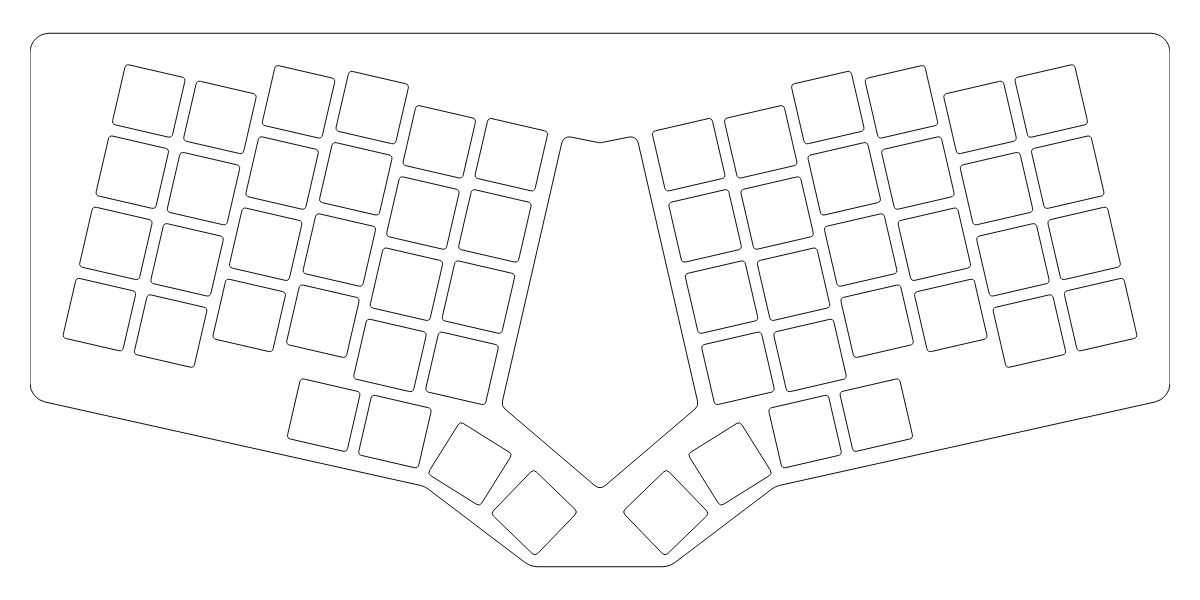
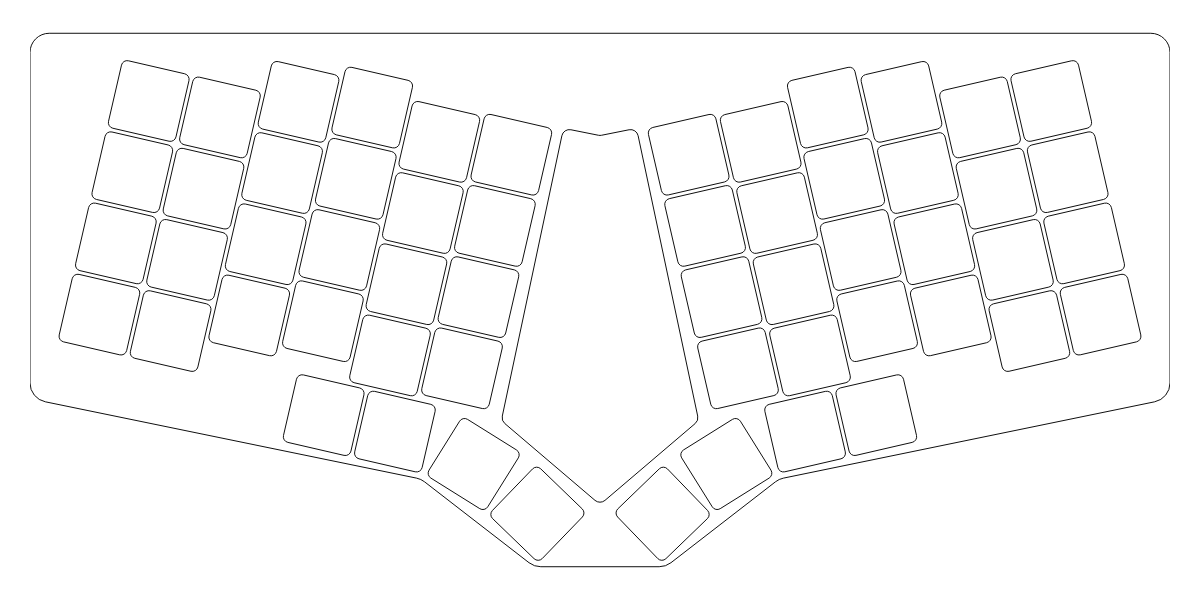
feat: adopt revised Briefs 56 layout

diff --git a/src/examples/briefs56.ts b/src/examples/briefs56.ts
@@ -4,23 +4,15 @@ import { ConfigExample } from './index';
 const Briefs56: ConfigExample = {
   label: 'Briefs 56',
   author: 'ceoloide',
-  value: `meta:
+  value: `# Inspired by the Dygma Sonsei
+meta:
   name: Briefs 56
   author: ceoloide
   engine: 4.3.0
   version: 1.0.0
-# Inspired by the Dygma Sonsei: 6 x 4 + 4 keys per half.
-# Ergogen defaults to u (19 mm) for both spread and padding; U is 19.05 mm.
-# The matrix and outer two thumbs use that default spacing for Choc v2 / MX.
-# The inner thumb pair approximates the drawing's custom keycaps.
-# cap is a visual guide, not a physical keycap clearance specification.
-# The body and center are illustrative outlines, not a manufactured case/PCB.
 units:
-  cap: u - 3
+  keycap: 18
 points:
-  key:
-    width: cap
-    height: cap
   mirror: 0
   zones:
     matrix:
@@ -52,13 +44,13 @@ points:
         middle:
         inner:
           key:
-            spread: 1.1u
-            stagger: -0.2u
+            spread: 1.15u
+            stagger: -0.19u
             splay: -19
         tip:
           key:
             spread: 1.1u
-            stagger: -0.1u
+            stagger: -0.115u
             splay: -12
       rows:
         thumb:
@@ -66,27 +58,27 @@ outlines:
   keys:
     - what: rectangle
       where: true
-      size: cap
-      corner: 1
+      size: keycap
+      corner: 1.5
   body:
     - what: polygon
       points:
         - shift: [-7.8u, 0]
         - shift: [15.6u, 0]
         - shift: [0, -5u]
-        - shift: [-5.4u, -1.2u]
-        - shift: [-1.45u, -1.1u]
-        - shift: [-1.9u, 0]
-        - shift: [-1.45u, 1.1u]
-        - shift: [-5.4u, 1.2u]
+        - shift: [-5.35u, -1.1u]
+        - shift: [-1.55u, -1.2u]
+        - shift: [-1.8u, 0]
+        - shift: [-1.55u, 1.2u]
+        - shift: [-5.35u, 1.1u]
       fillet: 5
   center:
     - what: polygon
       points:
-        - shift: [-0.5u, -1.4u]
+        - shift: [-0.5u, -1.3u]
         - shift: [0.5u, -0.1u]
         - shift: [0.5u, 0.1u]
-        - shift: [0.85u, -3.7u]
+        - shift: [0.85u, -4u]
         - shift: [-1.35u, -1.15u]
         - shift: [-1.35u, 1.15u]
       fillet: 2

diff --git a/CHANGELOG.md b/CHANGELOG.md
@@ -1,26 +1,5 @@
 # Changelog
 
-## Briefs 56 Keyboard Example
-
-November 15, 2026
-
-The built-in examples now include **Briefs 56**, a unibody layout based on the
-Dygma Sonsei reference drawing. Choose it under **Miscellaneous** to start with
-56 keys using Ergogen's default 19 mm spacing, with column stagger and a
-thumb fan anchored to the matrix.
-
-![Briefs 56 key layout with outer body and central outline.](./public/images/changelog/briefs-56.png)
-
-**What changed:**
-
-- **Key layout**: Six columns of four keys and four thumb keys per side. The
-  outer two thumbs align with the matrix; the inner pair approximates the
-  reference's custom keycaps.
-- **Outlines**: Separate outer body and central shape, plus a combined preview.
-- **Editable geometry**: Built-in `u` units, column stagger and relative thumb
-  anchors make the layout easy to adjust. The drawn caps are visual guides,
-  not a physical keycap clearance specification.
-
 ## Steadier Previews After Opening a Configuration
 
 November 15, 2026

diff --git a/README.md b/README.md
@@ -28,8 +28,9 @@ Dygma Sonsei. It uses Ergogen's default `u` (19 mm) spread and padding for
 Choc v2 / MX, column stagger and a relative thumb fan. The outer two thumbs
 align with the matrix; the inner pair approximates the reference's custom
 keycaps. Separate key, body, central shape and combined preview outlines are
-included. The body is approximately 296 × 139 mm. The drawn caps (`u - 3`)
-are visual guides; check physical keycap clearance before fabrication.
+included. The body is approximately 296 × 139 mm. The key outlines use
+18 mm caps with 1.5 mm corner radii; check physical keycap clearance before
+fabrication.
 
 ## Privacy and network use
 
